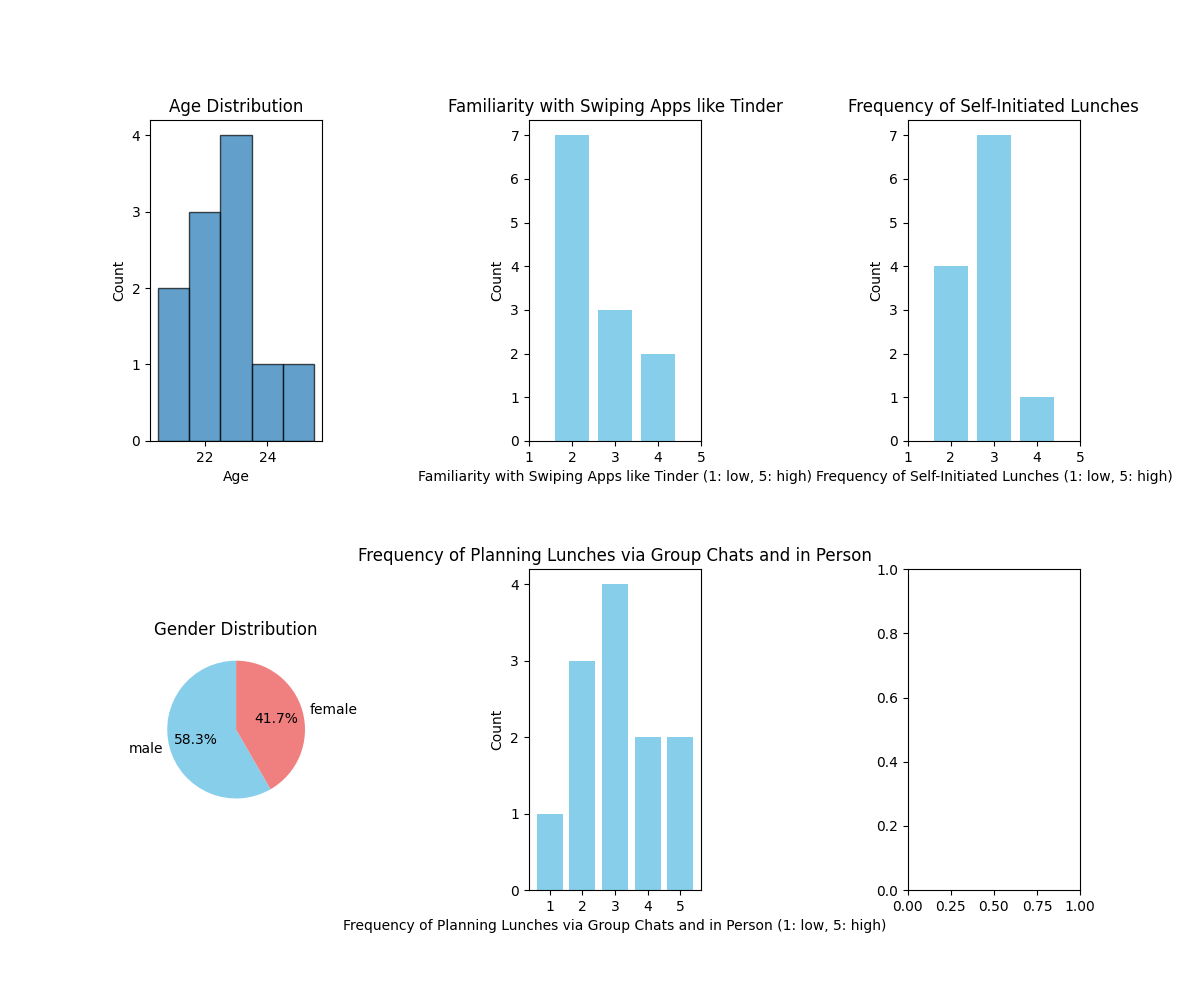
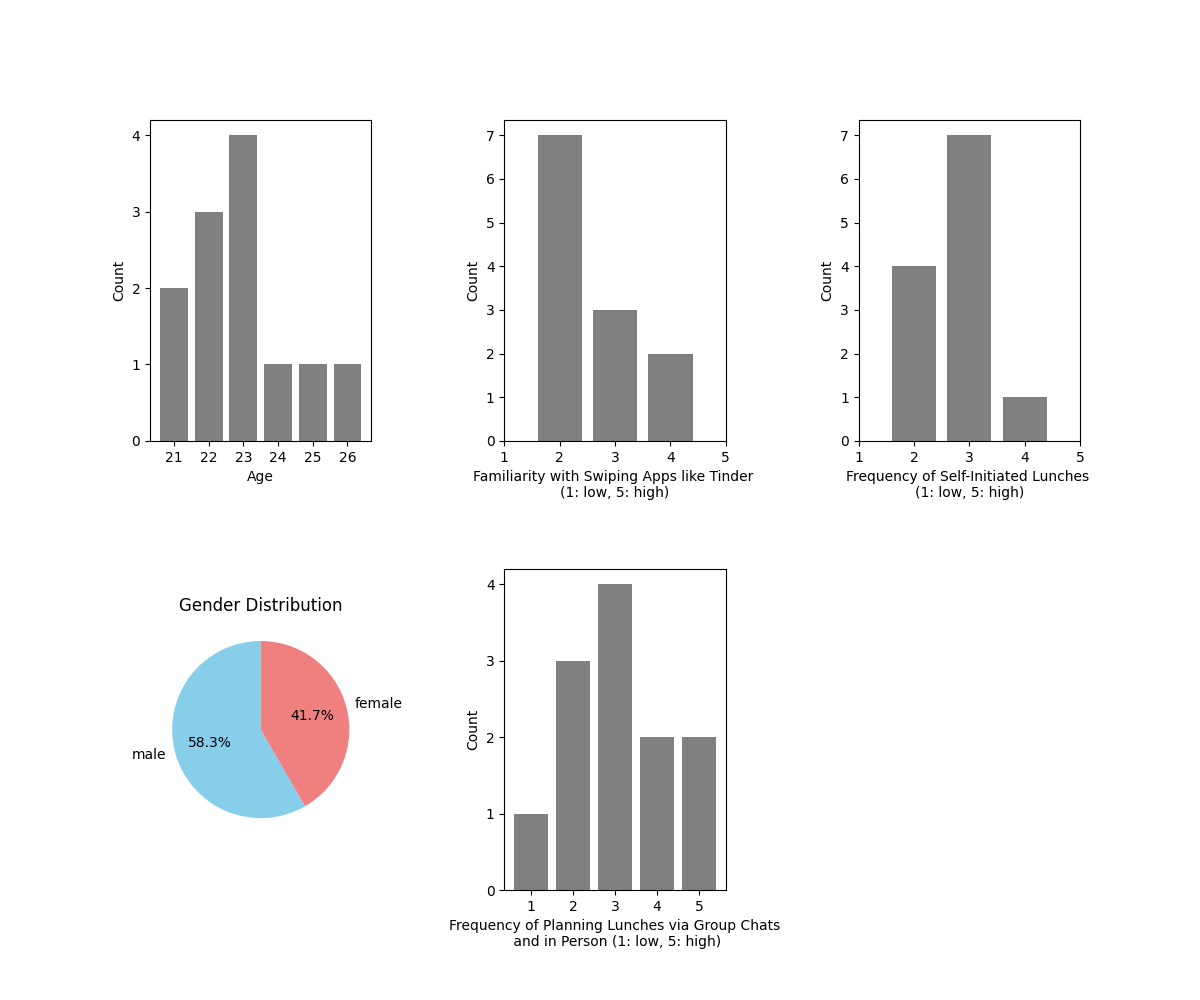
demographics plot

diff --git a/code/study_analysis/data_analysis.py b/code/study_analysis/data_analysis.py
@@ -17,14 +17,15 @@ df = pd.read_csv(file_path)
 
 # Set up subplots
 fig, axs = plt.subplots(2, 3, figsize=(12, 10))
-plt.subplots_adjust(wspace=1.2, hspace=0.4)
+plt.subplots_adjust(wspace=0.6, hspace=0.4)
 
 # Plot 1: Age Distribution
-axs[0, 0].hist(df['age'], bins=[age - 0.5 for age in set(df['age'])], edgecolor='black', alpha=0.7)
-axs[0, 0].set_yticks(np.arange(0, 5, 1))
+age_counts = df['age'].value_counts()
+axs[0, 0].bar(age_counts.index, age_counts, color='grey')
+axs[0, 0].set_xticks(np.arange(21,27,1))
+axs[0, 0].set_yticks(np.arange(0,5,1))
 axs[0, 0].set_xlabel('Age')
 axs[0, 0].set_ylabel('Count')
-axs[0, 0].set_title('Age Distribution')
 
 avg_age = df['age'].mean()
 med_age = df['age'].median()
@@ -38,39 +39,35 @@ axs[1, 0].set_title('Gender Distribution')
 
 # Plot 3: Tinder Familiarity
 familiarity_counts = df['tinder_frequency'].value_counts().sort_index()
-axs[0, 1].bar(familiarity_counts.index, familiarity_counts, color='skyblue')
+axs[0, 1].bar(familiarity_counts.index, familiarity_counts, color='grey')
 axs[0, 1].set_xticks(np.arange(1, 6, 1))
-axs[0, 1].set_xlabel('Familiarity with Swiping Apps like Tinder (1: low, 5: high)')
+axs[0, 1].set_xlabel('Familiarity with Swiping Apps like Tinder \n(1: low, 5: high)')
 axs[0, 1].set_ylabel('Count')
-axs[0, 1].set_title('Familiarity with Swiping Apps like Tinder')
 
-avg_tinder_frequency = df['tinder_frequency'].mean()
+avg_tinder_familiarity = df['tinder_frequency'].mean()
 
 
 # Plot 4: Frequency of Planning Lunches
 frequency_counts = df['group_chat_frequency'].value_counts().sort_index()
-axs[1, 1].bar(frequency_counts.index, frequency_counts, color='skyblue')
+axs[1, 1].bar(frequency_counts.index, frequency_counts, color='grey')
 axs[1, 1].set_xticks(np.arange(1, 6, 1))
 axs[1, 1].set_yticks(np.arange(0, 5, 1))
-axs[1, 1].set_xlabel('Frequency of Planning Lunches via Group Chats and in Person (1: low, 5: high)')
+axs[1, 1].set_xlabel('Frequency of Planning Lunches via Group Chats\n and in Person (1: low, 5: high)')
 axs[1, 1].set_ylabel('Count')
-axs[1, 1].set_title('Frequency of Planning Lunches via Group Chats and in Person')
 
 avg_planning_frequency = df['group_chat_frequency'].mean()
 
 
-# Frequency of Self-Initiated Lunch
+# Plot 5: Frequency of Self-Initiated Lunch
 si_frequency_counts = df['self_initiated_lunch'].value_counts().sort_index()
-axs[0, 2].bar(si_frequency_counts.index, si_frequency_counts, color='skyblue')
+axs[0, 2].bar(si_frequency_counts.index, si_frequency_counts, color='grey')
 axs[0, 2].set_xticks(np.arange(1,6,1))
-axs[0, 2].set_xlabel('Frequency of Self-Initiated Lunches (1: low, 5: high)')
+axs[0, 2].set_xlabel('Frequency of Self-Initiated Lunches \n(1: low, 5: high)')
 axs[0, 2].set_ylabel('Count')
-axs[0, 2].set_title('Frequency of Self-Initiated Lunches')
 
 avg_self_init_frequency = df['self_initiated_lunch'].mean()
 
-
-#plt.tight_layout()
+fig.delaxes(axs[1, 2])
 plt.savefig(path_to_analysis + '/demographics_plots.png')
 plt.show()
 
